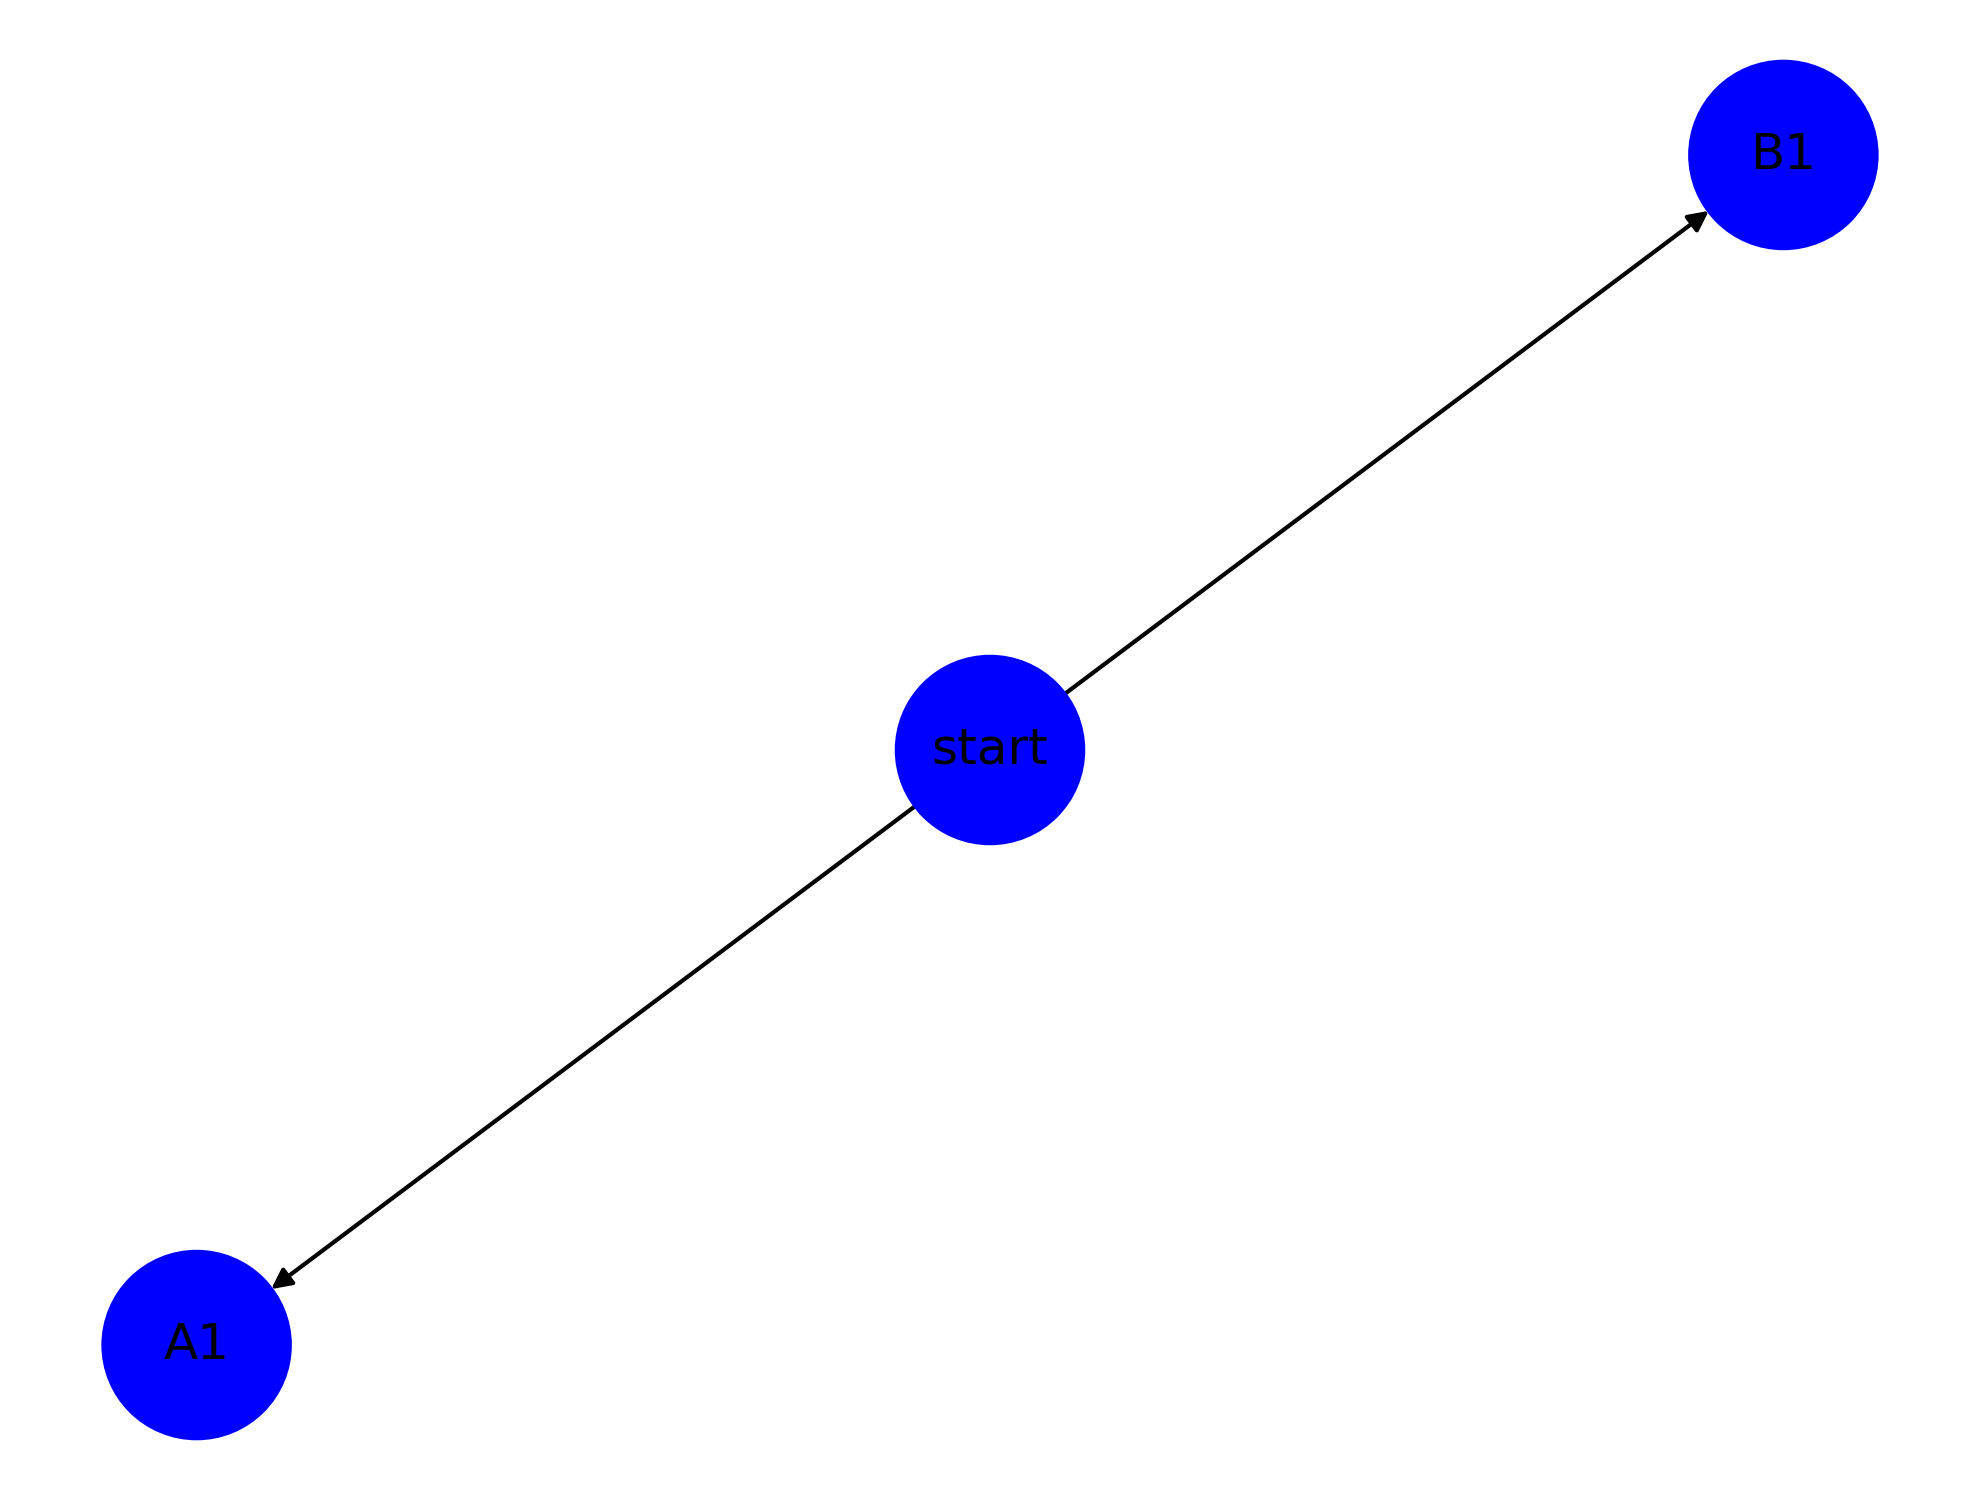
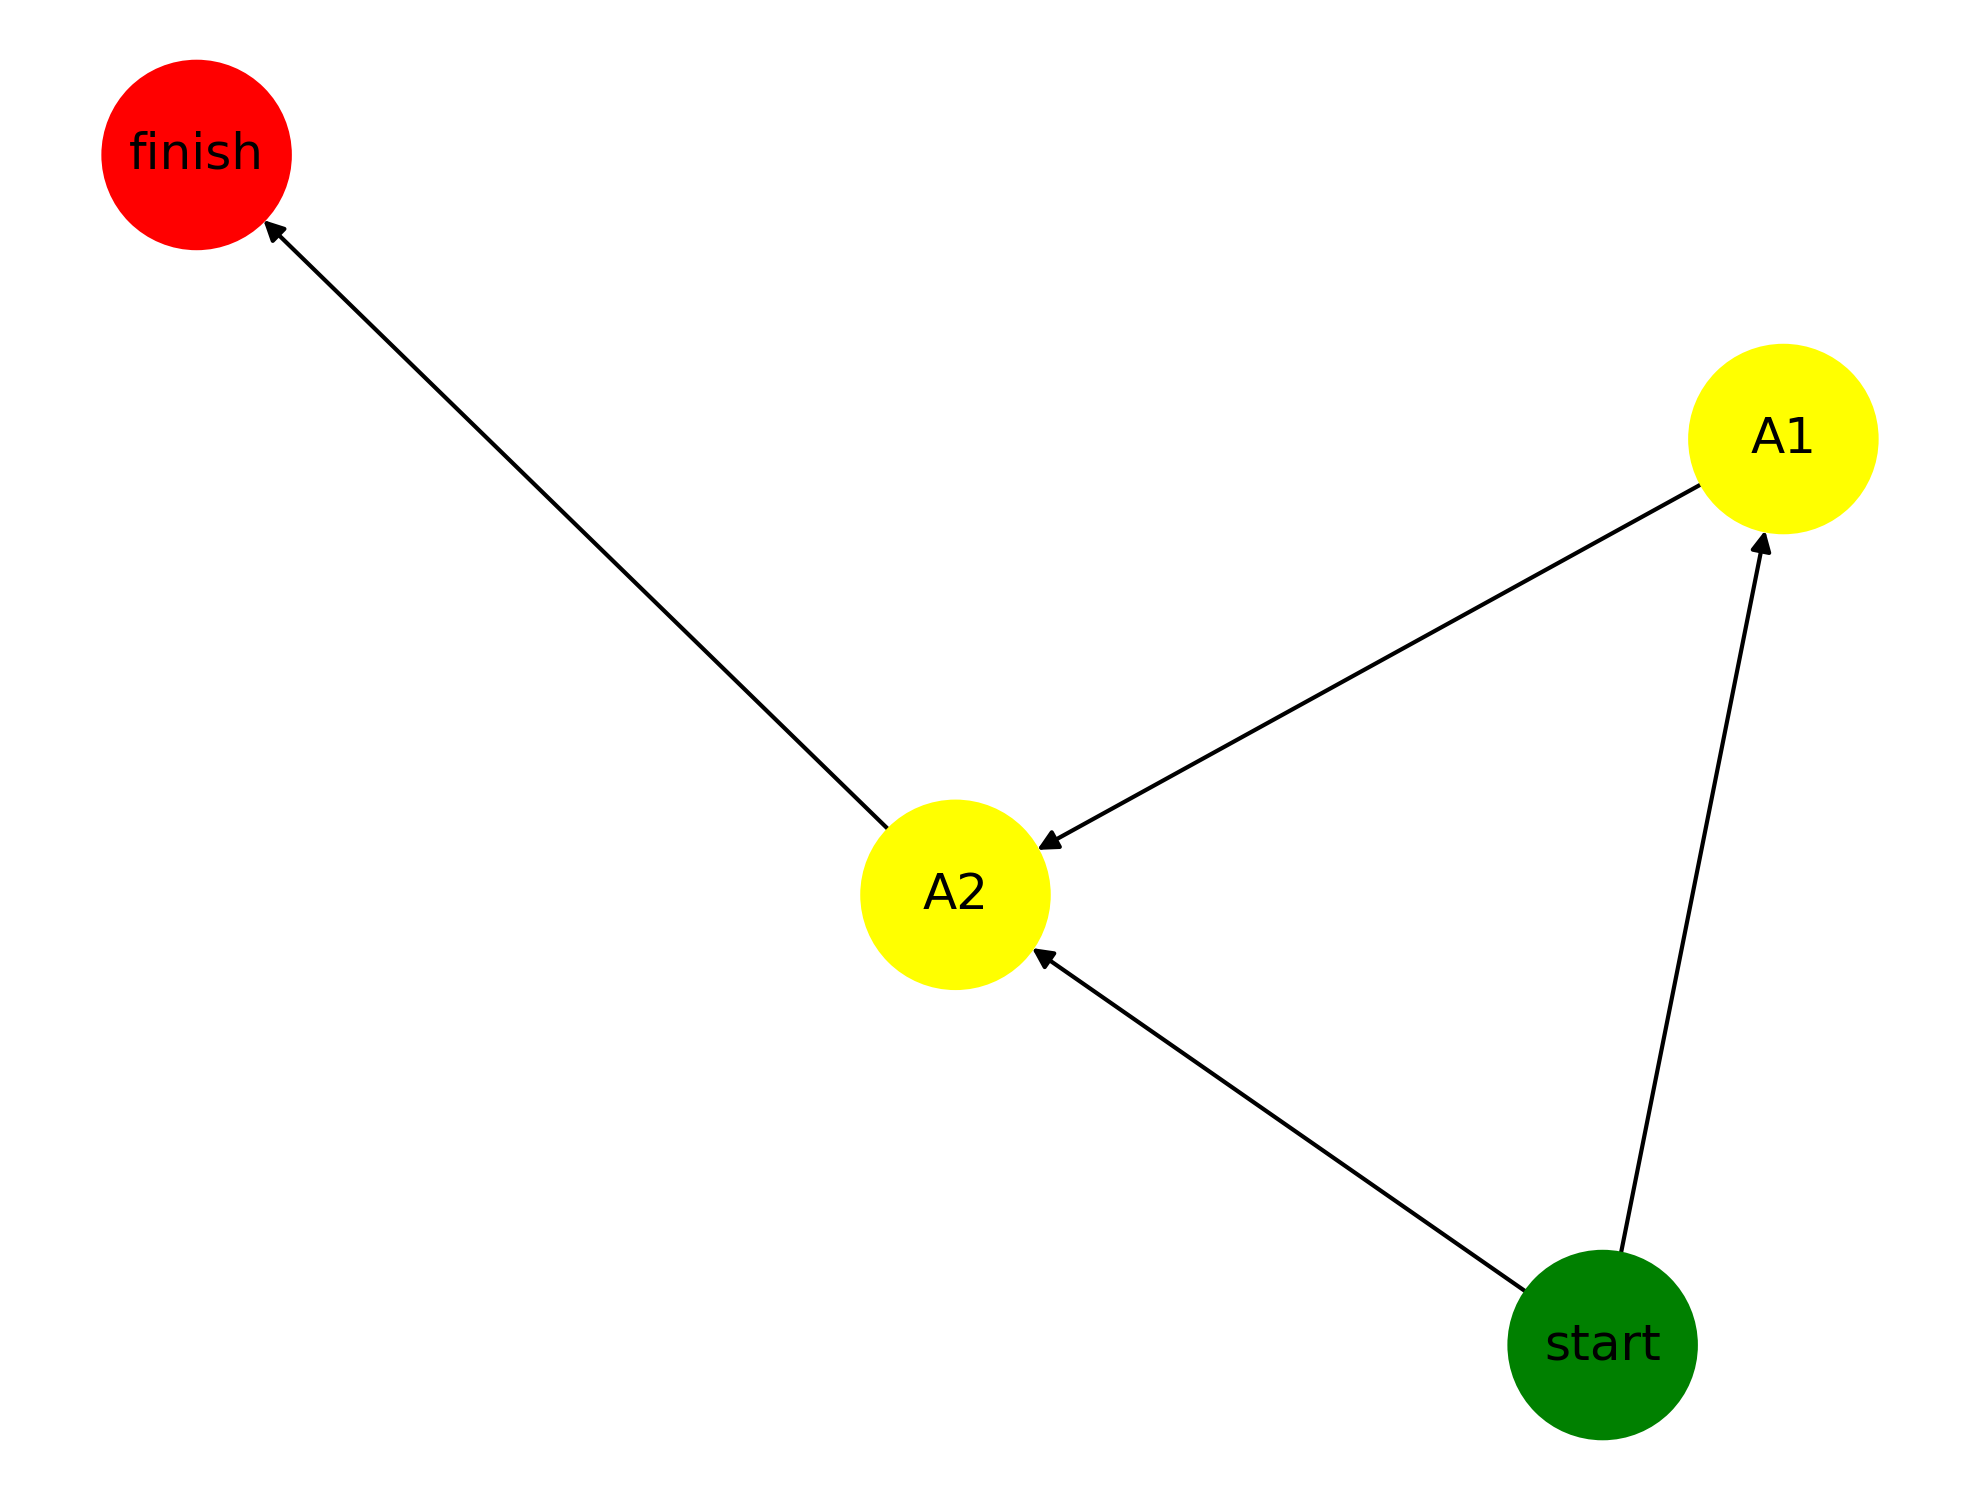
added coloring, added support for if tag

diff --git a/graph_creator.py b/graph_creator.py
@@ -1,6 +1,6 @@
 import copy
 import xml
-from constants import ALL_STATES, STATE_COLORS
+from constants import ALL_STATES, STATE_COLORS, START_STATE_COLOR
 import networkx as nx
 from scope import Context
 
@@ -32,36 +32,34 @@ def make_graph_BFS(flowdom, track_vars, config):
         parse_non_transitions_node(on_start_node[0], context, method_vals)
 
     # for speed build map from state id to dom objects
+    # and create map from state id to state type for coloring
     stateDOM_map = {}
     end_states = set()
-    for state_name in ALL_STATES:
-        state_nodes = flowdom.getElementsByTagName(state_name)
+    nodes_colors_map = {}
+    for state_type in ALL_STATES:
+        state_nodes = flowdom.getElementsByTagName(state_type)
         for state_node in state_nodes:
             state = state_node.getAttribute("id")
+            print(f"here {state} -> {state_type}")
             stateDOM_map[state] = state_node
-            if state_name == "end-state":
-                end_states.add(state_name)
+            nodes_colors_map[state] = STATE_COLORS[state_type]
+            if state_type == "end-state":
+                end_states.add(state)
+    nodes_colors_map[start_state] = START_STATE_COLOR
 
-    print(f"context = {context}")
-
-    nodes_states_map = {}
     edges = []
     visited = set()
-    scanDomBFS(start_state, visited, context, edges, nodes_states_map, stateDOM_map, end_states, method_vals)
-
-    print(edges)
+    scanDomBFS(start_state, visited, context, edges, stateDOM_map, end_states, method_vals)
 
     G = nx.DiGraph()
     G.add_edges_from(edges)
-    # colors = [STATE_COLORS[nodes_states_map[node]] for node in G.nodes()]
-    colors = ["blue"] * len(G.nodes)
+    colors = [nodes_colors_map[node] for node in G.nodes()]
+    # colors = ["blue"] * len(G.nodes)
 
     return G, colors
 
 
-def scanDomBFS(cur, visited, context, edges, nodes_state_map, stateDOM_map, end_states, method_vals):
-    print(f"{cur} -> {visited}")
-
+def scanDomBFS(cur, visited, context, edges, stateDOM_map, end_states, method_vals):
     if cur in end_states or cur in visited:
         return
 
@@ -80,6 +78,13 @@ def scanDomBFS(cur, visited, context, edges, nodes_state_map, stateDOM_map, end_
             next_state = child.getAttribute("to")
             if next_state:
                 next_states.append(next_state)
+        elif child.localName == "if":
+            next_state_then = child.getAttribute("then")
+            if next_state_then:
+                next_states.append(next_state_then)
+            next_state_else = child.getAttribute("else")
+            if next_state_else:
+                next_states.append(next_state_else)
         else:
             parse_non_transitions_node(child, context, method_vals)
 
@@ -95,11 +100,9 @@ def scanDomBFS(cur, visited, context, edges, nodes_state_map, stateDOM_map, end_
                 new_context = copy.deepcopy(context)
                 new_context.getVar(fixed_next_state).set_vals([possible_next_state])
                 new_visited = copy.deepcopy(visited)
-                new_visited.add(possible_next_state)
                 if stateDOM_map[possible_next_state].childNodes:
                     parse_non_transitions_node(stateDOM_map[possible_next_state], new_context, method_vals)
-                scanDomBFS(possible_next_state, new_visited, new_context, edges, nodes_state_map, stateDOM_map,
-                           end_states, method_vals)
+                scanDomBFS(possible_next_state, new_visited, new_context, edges, stateDOM_map, end_states, method_vals)
 
         # otherwise continue to next state
         else:
@@ -107,12 +110,10 @@ def scanDomBFS(cur, visited, context, edges, nodes_state_map, stateDOM_map, end_
                 continue
             edges.append((cur, next_state))
             new_visited = copy.deepcopy(visited)
-            new_visited.add(next_state)
             new_context = copy.deepcopy(context)
             if stateDOM_map[next_state].childNodes:
                 parse_non_transitions_node(stateDOM_map[next_state], new_context, method_vals)
-            scanDomBFS(next_state, new_visited, new_context, edges, nodes_state_map, stateDOM_map, end_states,
-                       method_vals)
+            scanDomBFS(next_state, new_visited, new_context, edges, stateDOM_map, end_states, method_vals)
 
 
 def make_graph_no_BFS(flowdom):

diff --git a/constants.py b/constants.py
@@ -13,3 +13,5 @@ STATE_COLORS = {
     "action-state": "orange",
     "decision-state": "orange",
 }
+
+START_STATE_COLOR = "green"
